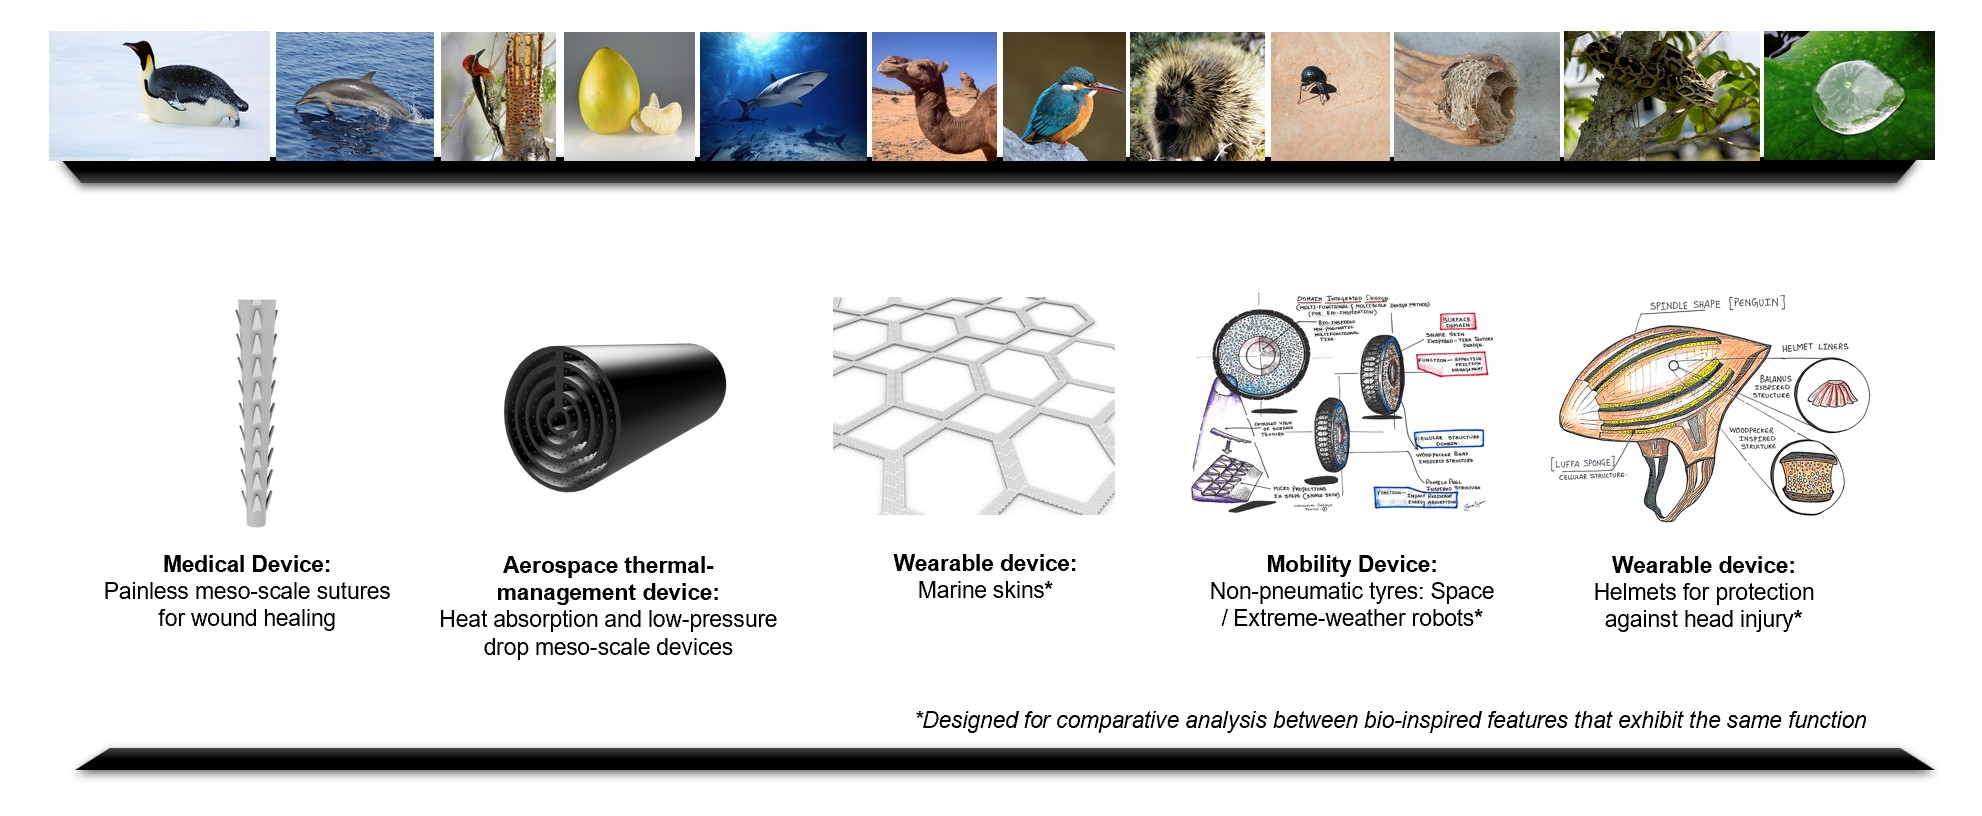
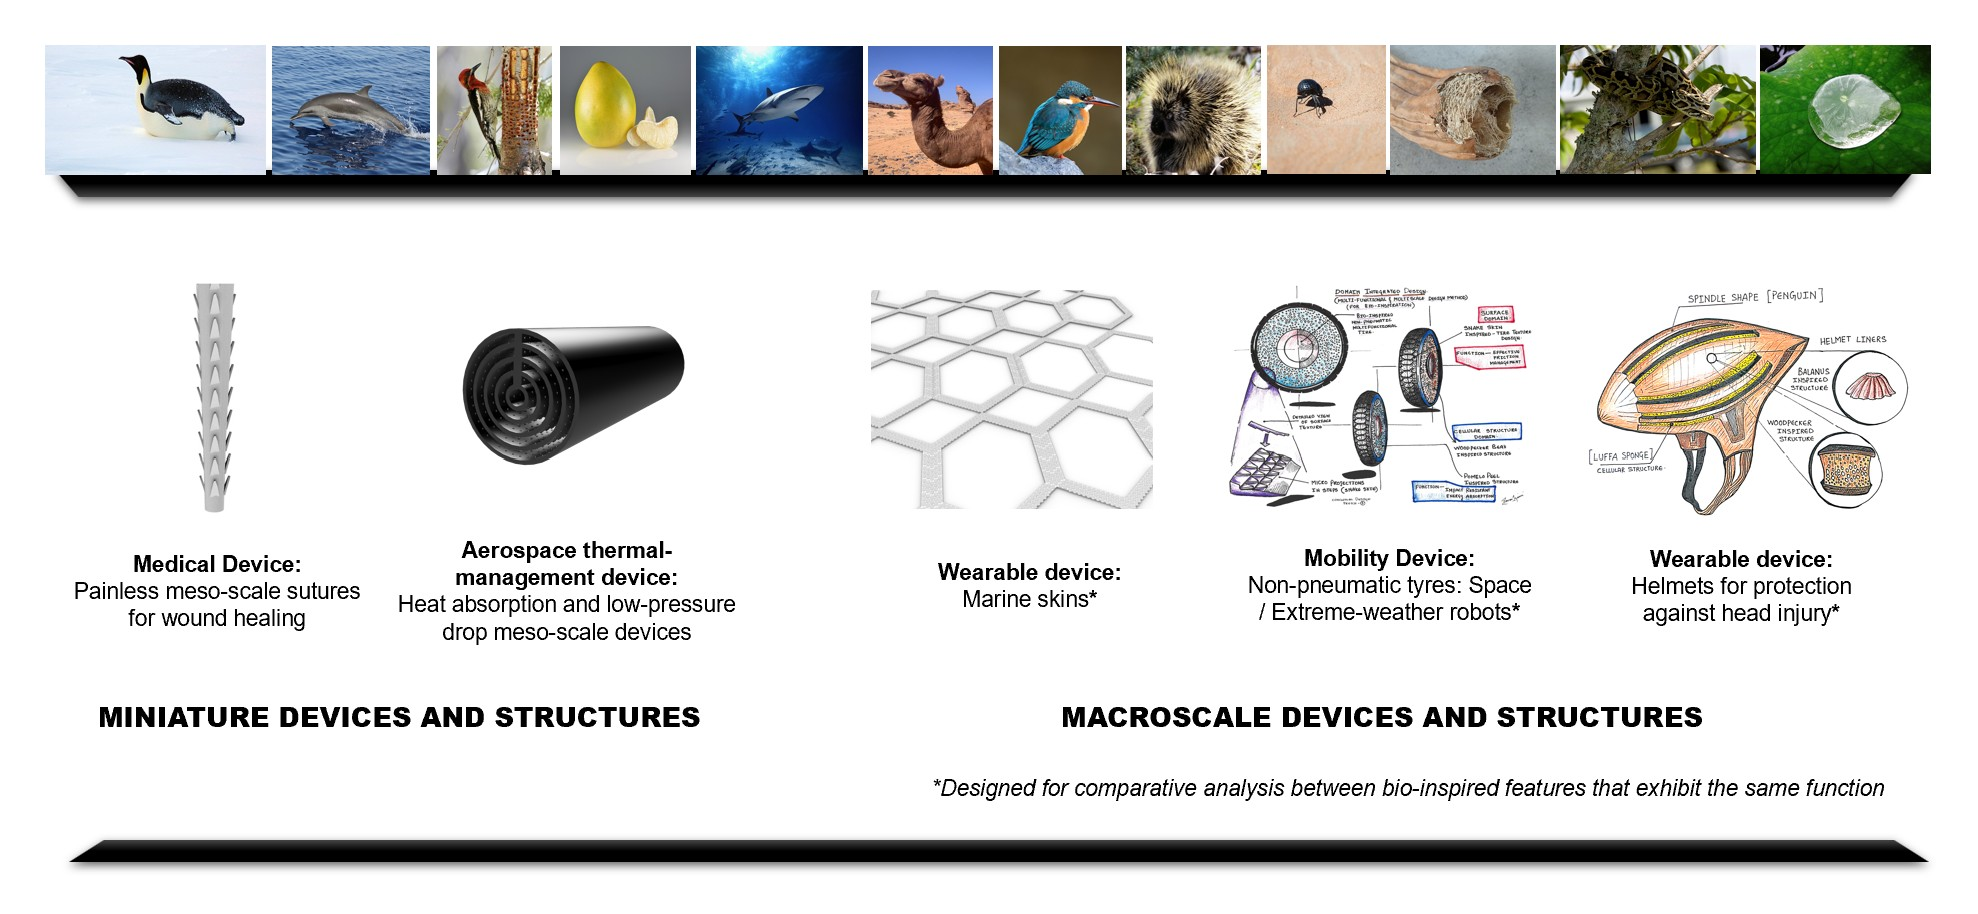
sixty six commit

diff --git a/index.html b/index.html
@@ -27,16 +27,17 @@
     <div id="header">
         <div class="row">
                 <div class="row-text">
-                    <h1><b>MBID ideation system</b></h1>
+                    <h1><b>MBID ideation system v1.0</b></h1>
+                    <h4><b>Multifunctional Bio-inspired Devices and Structures</b></h4>
                 </div>
-            <img src="images/mbid1.jpg" width="72%" alt="MBID Concept Overview">
+            <img src="images/mbid1.jpg" width="35%" alt="MBID Concept Overview">
         </div>
     </div>
         
     <div id ="header">
             <p>
                 <b>MBID</b> stands for <b><u>M</u>ultifunctional <u>B</u>io-<u>i</u>nspired <u>D</u>esign</b> - a biological morphology-informed, rule-based concept design framework 
-                developed to translate functional biological structural strategies into novel <b>multifunctional bio-inspired morphology-driven device architectures</b>.
+                developed to translate functional biological structural strategies into novel <b>multifunctional bio-inspired morphology-driven device and structural architectures</b>.
             </p>
                 
     </div>
@@ -45,42 +46,54 @@
             <h2><b>APPLICATION</b></h2> 
                 
                 <p>
-                    <b>MBID</b> operates at the <b>early stages of innovation</b>, supporting concept definition, embodiment development, and functional verification. 
+                    <b>MBID v1.0</b> operates at the <b>early stages of innovation</b>, supporting concept definition, embodiment development, and functional verification. 
                     Concepts demonstrating technical feasibility and strategic potential advance to detailed product development and commercialisation. The framework enables the <b>structured combination of non-obvious 
-                    or intentionally selected functions</b>, resulting in distinctive multifunctional device concepts.    
+                    or intentionally selected functions</b>, resulting in distinctive multifunctional device and structural concepts.    
                 </p>
             
                 <p>
-                    <b>MBID</b> is applied at the early stages of design for critical and highly constrained industrial sectors, including 
+                    <b>MBID v1.0</b> is applied at the early stages of design for critical and highly constrained industrial sectors, including 
                     <em>medical and surgical devices, aerospace and defence systems, automotive and marine technologies, wearable systems, bio-inspired robotics, energy systems, and affordable technologies for resource-constrained environments</em>. 
                 </p>
 
                 <p>
-                    <b>Application scale range</b>: MBID addresses device design across scales and is particularly suited to <b>morphology-driven miniature systems (micro-to-centimeter scale)</b>, where functionality is governed by <b>morphology</b> and <b>material properties</b> rather than assemblies of discrete components.
+                    <b>APPLICATION SCALE</b>:<br> 
+                    MBID addresses morphology-driven design <b>across scales</b>, from architectural systems to macro-scale devices and miniature systems. The framework is particularly suited to <b>morphology-driven miniature deivces and structures (micro- to centimetre scale)</b>, 
+                    where functionality is governed by geometry and material properties rather than assemblies of discrete components.
 
                 </p>
-
-            <img src="images/early-stage1.jpg" class="img-center" width="65%" alt="Applications Overview2">
-        
-    </div> 
+    </div>
+            
+    <div id="header">
+        <div class="row">
+            <img src="images/applications.jpg" width ="40%" alt="Applications">    
+            <img src="images/early-stage1.jpg" width ="55%" alt="Applications Overview2">
+            <!--make sure that the total width of pic 1 and pic 2 is 100% and should not cross 100%-->
+        </div>
+    </div>
     
     <div id = "header">  
         
        <h2><b>FOUNDATION</b></h2>
         <p>   
-            The <b>MBID ideation system</b> guides the generation of <b>morphology-driven multifunctional bio-inspired device concepts</b> by <b>systematically integrating biological morphological strategies</b> 
+            The <b>MBID ideation system v1.0</b> guides the generation of <b>morphology-driven multifunctional bio-inspired device concepts</b> by <b>systematically integrating biological morphological strategies</b> 
             into <b>engineered geometry–material configurations</b> to achieve coupled functional performance.
         </p>
 
+        <p>
+            TThe framework facilitates systematic early-stage concept generation by <b>integrating geometry and material across multiple length scales</b> within a single structure, 
+            enabling functional coupling to emerge from form and material instead of relying on discrete components or add-on subsystems.
+        </p>
+
             
-            <img src="images/intro.jpg" class="img-center" width="83%" alt="Applications Overview1">
+            <img src="images/intro.jpg" class="img-center" width="85%" alt="Applications Overview1">
         
     
         <p>
             The effectiveness of the MBID ideation system is evidenced through cross-sector application and functional validation, including 
-            <b>medical and surgical devices</b> (painless meso-scale sutures), 
-            <b>passive robotic devices</b> (non-pneumatic tyres), 
-            <b>aerospace thermal-management devices</b> (heat-absorbing, low-pressure-drop architectures), and 
+            <b>medical and surgical device</b> (painless meso-scale sutures), 
+            <b>passive robotic mobility device</b> (non-pneumatic tyres), 
+            <b>aerospace thermal-management device</b> (heat-absorbing, low-pressure-drop architectures), and 
             <b>multifunctional wearable devices</b> (marine-adaptive skins and impact-protection helmets).  
         </p>       
 
@@ -97,7 +110,7 @@
         </p> 
 
         <p>
-            At the core of the <b>DID and xDID</b> methodologies is the classification of biological morphological features based on their defining characteristics and their mapping to overarching <b>geometric/architectural designations</b>, referred to as <b>Domains</b>.
+            The <b>DID and xDID</b> methodologies is the classification of biological morphological features based on their defining characteristics and their mapping to overarching <b>geometric/architectural designations</b>, referred to as <b>Domains</b>.
             These Domains are defined as <b>Surfaces, Cellular Structures, Shapes</b>, and <b>Cross-Sections</b>.
         </p> 
 

diff --git a/pages/method.html b/pages/method.html
@@ -23,7 +23,8 @@
 
 <body>
     <div id ="header">
-        <h1><b>MBID ideation system</b></h1>
+        <h1><b>MBID ideation system v1.0</b></h1>
+        <h4><b>Multifunctional Bio-inspired Devices and Structures</b></h4>
     </div>
 
      <div id="nav">
@@ -191,17 +192,25 @@
     <div id="Lego">
         <p style="font-size: 20px;">
             <b>RELATED PUBLICATIONS</b>
-        </p>    
+        </p> 
             <p><em>
-                1. Velivela, P.T. and Zhao, Y.F., 2024. BIKAS: Bio-Inspired Knowledge Acquisition and Simulacrum—A Knowledge Database to Support Multifunctional Design Concept Generation. Data Intelligence, pp.1-28.  DOI: <u>https://doi.org/10.1162/dint_a_00240</u>   
+                1. Velivela, P.T., 2024. Multifunctional Bio-inspired Design (MBID): A Rapid Idea Generation System for Multifunctional Bio-inspired Designs. McGill University (Canada) - (PhD Thesis)
             </em></p>
 
             <p><em>
-                2. Velivela, P.T. and Zhao, Y.F., 2023. Supporting Multifunctional Bio-Inspired Design Concept Generation through Case-Based Expandable Domain Integrated Design (xDID) Model. Designs, 7(4), p.86.  DOI: <u>https://doi.org/10.3390/designs7040086</u>
+                2. Velivela, P.T., Ridard, A. and Zhao, Y.F., 2024. Parameters for selecting biological features in multifunctional bio-inspired design: a convergent evolution approach. Bioinspiration & Biomimetics. DOI: <u>10.1088/1748-3190/ad3ed3</u>   
+            </em></p>
+            
+            <p><em>
+                3. Velivela, P.T. and Zhao, Y.F., 2024. BIKAS: Bio-Inspired Knowledge Acquisition and Simulacrum—A Knowledge Database to Support Multifunctional Design Concept Generation. Data Intelligence, pp.1-28.  DOI: <u>https://doi.org/10.1162/dint_a_00240</u>   
             </em></p>
 
             <p><em>
-                3. Velivela, P.T. and Zhao, Y.F., 2022. A Comparative Analysis of the State-of-the-Art Methods for Multifunctional Bio-Inspired Design and an Introduction to Domain Integrated Design (DID). Designs, 6(6), p.120.  DOI: <u>https://doi.org/10.3390/designs6060120</u> <b>(Feature paper)</b>
+                4. Velivela, P.T. and Zhao, Y.F., 2023. Supporting Multifunctional Bio-Inspired Design Concept Generation through Case-Based Expandable Domain Integrated Design (xDID) Model. Designs, 7(4), p.86.  DOI: <u>https://doi.org/10.3390/designs7040086</u>
+            </em></p>
+
+            <p><em>
+                5. Velivela, P.T. and Zhao, Y.F., 2022. A Comparative Analysis of the State-of-the-Art Methods for Multifunctional Bio-Inspired Design and an Introduction to Domain Integrated Design (DID). Designs, 6(6), p.120.  DOI: <u>https://doi.org/10.3390/designs6060120</u> <b>(Feature paper)</b>
             </em></p>
     </div>
      

diff --git a/main.css b/main.css
@@ -15,12 +15,14 @@ img {
     float: left;
     margin-right: 20px; /* Space between image and text */
     margin-bottom: 10px;
+    width: 50%;
 }
 /*create a class for image right-alignment*/
 .img-right {
     float: right;
     margin-left: 20px;
     margin-bottom: 10px;
+    width: 50%;
 }
 /*create a class for image center-alignment*/
 .img-center {
@@ -31,26 +33,27 @@ img {
 /*These are the classes in the div oof the image and text. It creates a row with the image and text side by side, with precise spacing and alignment.*/
 .row {
     display: flex;
-    align-items: center; /* This centers the text vertically against the image */
+    align-items: center;     /* This centers the text vertically against the image */
+    gap: 20px;               /* Precise spacing between image and text */
+    margin-bottom: 10px;     /* Spacing between different rows */
     /*align-items: flex-start; /*Aligns text to the top of the image */
     /*align-items: stretch;  /*Both image and text box will be the same height */
     /*align-items: flex-end; /* Text sits at the bottom of the image */
-    gap: 20px;               /* Precise spacing between image and text */
-    margin-bottom: 10px;     /* Spacing between different rows */
 }
 
 .row img {
-    flex: 0 0 60%;     /* Image stays at 30% width and won't shrink */
+
     max-height: 600px; /* Limits the vertical growth */
     object-fit: cover;  /* Prevents the image from looking squashed */
-    max-width: 60%;     /* Ensure image doesn't exceed 30% of the row */
     height: auto;
+    /* flex: 0 0 50%;      /* Image stays at 50% width and won't shrink */
+    /* max-width: 50%;     /* Ensure image doesn't exceed 50% of the row */
 }
 
 .row-text {
     flex: 1;                 /* Text takes up all remaining space */
-        font-family: Arial, Helvetica, sans-serif;
-        font-size: 20px;
+    font-family: Arial, Helvetica, sans-serif;
+    font-size: 20px;
 }
 
 .col-text {                 /* This class is for text in a column layout, where the image is above the text */

diff --git a/pages/user-manual.html b/pages/user-manual.html
@@ -24,7 +24,8 @@
 <body>
     
     <div id ="header">
-        <h1><b>MBID ideation system</b></h1>
+        <h1><b>MBID ideation system v1.0</b></h1>
+        <h4><b>Multifunctional Bio-inspired Devices and Structures</b></h4>
     </div>
 
     <div id="nav">
@@ -68,7 +69,7 @@
         </p>
         
         
-            <img src="../images/user manual 2.jpg" class="img-center" width="34%" alt="selection through metalevel design parameters">
+            <img src="../images/user manual 2.jpg" class="img-center" width="40%" alt="selection through metalevel design parameters">
             <h3><b>Step 1: Choosing relevant Domains</b></h3>
             <p>
                 The initial selection of domains for integration is driven by two key factors: the functional intention of the concept 

diff --git a/pages/cellular.html b/pages/cellular.html
@@ -25,7 +25,8 @@
 <body>
 
     <div id ="header">
-        <h1><b>MBID ideation system</b></h1>
+        <h1><b>MBID ideation system v1.0</b></h1>
+        <h4><b>Multifunctional Bio-inspired Devices and Structures</b></h4>
     </div>
     <div id="nav">
         <ul>

diff --git a/pages/cross-sections.html b/pages/cross-sections.html
@@ -24,7 +24,8 @@
 <body>
 
     <div id ="header">
-        <h1><b>MBID ideation system</b></h1>
+        <h1><b>MBID ideation system v1.0</b></h1>
+        <h4><b>Multifunctional Bio-inspired Devices and Structures</b></h4>
     </div>
     <div id="nav">
         <ul>

diff --git a/pages/shapes.html b/pages/shapes.html
@@ -24,7 +24,8 @@
 <body>
 
     <div id ="header">
-        <h1><b>MBID ideation system</b></h1>
+        <h1><b>MBID ideation system v1.0</b></h1>
+        <h4><b>Multifunctional Bio-inspired Devices and Structures</b></h4>
     </div>
 
     <div id="nav">

diff --git a/pages/surfaces.html b/pages/surfaces.html
@@ -24,7 +24,8 @@
 <body>
 
     <div id ="header">
-        <h1><b>MBID ideation system</b></h1>
+        <h1><b>MBID ideation system v1.0</b></h1>
+        <h4><b>Multifunctional Bio-inspired Devices and Structures</b></h4>
     </div>
 
     <div id="nav">
